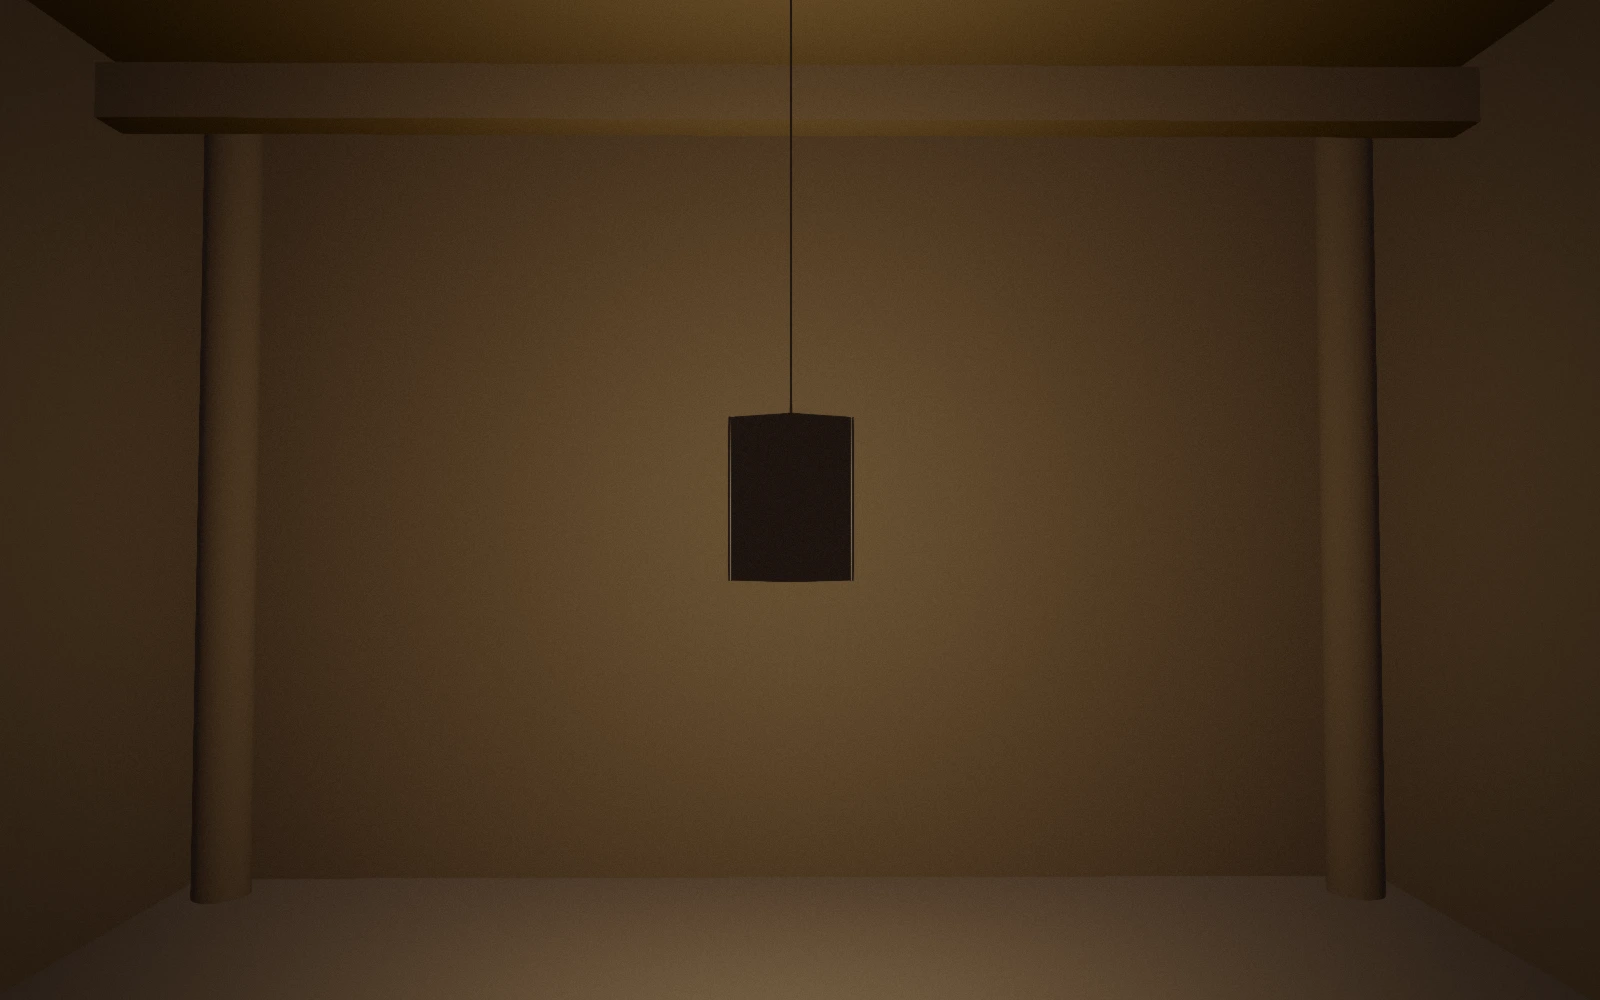
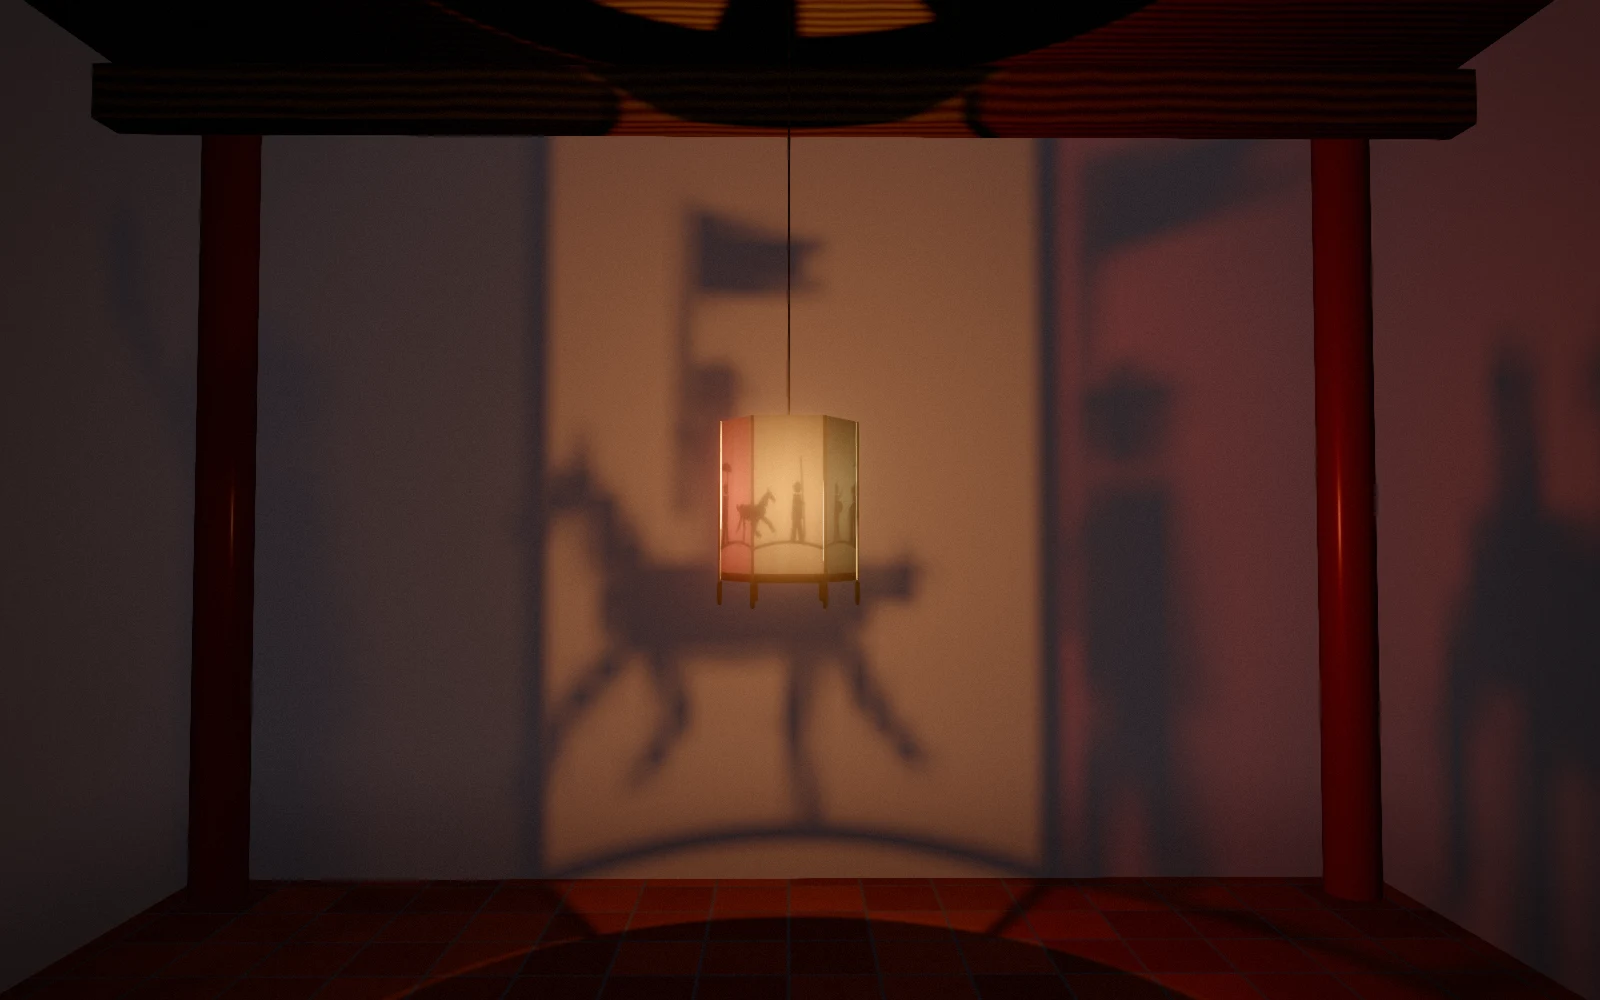
feat(den-keo-quan): poster và og chụp từ cảnh
- Chụp lại sau lượt màu bằng scripts/poster.js trên GPU thật, ở khung 200 (con ngựa phi và lá cờ giữa vách sau):
  poster.webp 1600×1000 (75 KB), og.jpg 1200×630 (47 KB).
- e2e Giấy: so SẮC của vách sau sau tấm đỏ son và sau tấm vàng lá (tỉ lệ R / G), không so độ sắc tuyệt đối. Sau lượt màu, giấy nhuộm
  làm vách tối đi nên (max − min) giảm dù màu đậm hơn, và test cũ hỏng oan. Đo: 0,27 khi có giấy, 0,05 khi không. canvasRegions trả
  thêm trung bình R, G, B của mỗi vùng.

diff --git a/e2e/den-keo-quan.spec.js b/e2e/den-keo-quan.spec.js
@@ -18,6 +18,11 @@ const FAR = { x0: 0, y0: 0.55, x1: 0.1, y1: 1 };
 const FLOOR_FAR = { x0: 0.02, y0: 0.9, x1: 0.22, y1: 1 };
 // Giữa tấm giấy quay về camera, tránh hai nan tre (tre vàng dưới đèn xưởng cũng là điểm ấm). Tỉ lệ khung 640×400.
 const LANTERN_BOX = { x0: 0.477, y0: 0.45, x1: 0.508, y1: 0.56 };
+// Vách sau, hai bên vạch bóng của nan tre bên phải: sau tấm vàng lá (giữa đèn và vạch) và sau tấm đỏ son (giữa vạch và cột phải).
+const GOLD_ZONE = { x0: 0.56, y0: 0.2, x1: 0.64, y1: 0.8 };
+const RED_ZONE = { x0: 0.68, y0: 0.2, x1: 0.8, y1: 0.8 };
+/** Độ ngả đỏ của một vùng: R / G của màu trung bình (không phụ thuộc độ sáng). */
+const redness = (region) => region.rgb[0] / Math.max(region.rgb[1], 1);
 
 let log;
 test.beforeEach(async ({ page }, testInfo) => {
@@ -183,15 +188,20 @@ test.describe('Đèn Kéo Quân · giấy', () => {
     test.skip(testInfo.project.metadata.kind !== '3d', 'chỉ chạy ở project 3D');
   });
 
-  test('giấy sáng lên từ bên trong (điểm ấm) và nhuộm màu ánh sáng ra vách; mài Giấy về 0 thì hết cả hai', async ({ page }, testInfo) => {
+  test('giấy sáng lên từ bên trong (điểm ấm) và nhuộm màu ánh sáng ra vách theo tấm; mài Giấy về 0 thì hết cả hai', async ({ page }, testInfo) => {
     test.setTimeout(180_000);
     await open(page, testInfo, 60);
-    const lit = await canvasRegions(page, { lantern: LANTERN_BOX, wall: WALL });
+    const regions = { lantern: LANTERN_BOX, gold: GOLD_ZONE, red: RED_ZONE };
+    const lit = await canvasRegions(page, regions);
     await page.evaluate(() => window.__sma.setWeight('giay', 0));
-    const bare = await canvasRegions(page, { lantern: LANTERN_BOX, wall: WALL });
+    const bare = await canvasRegions(page, regions);
     expect(lit.lantern.warm, 'giấy sáng: có điểm ấm').toBeGreaterThan(0);
     expect(bare.lantern.warm, 'giấy là đất sét: không điểm ấm').toBe(0);
-    expect(lit.wall.chroma, 'ánh sáng qua giấy nhuộm màu vách').toBeGreaterThan(bare.wall.chroma);
+    // So SẮC, không so độ sắc tuyệt đối: giấy nhuộm làm vách tối đi, nên (max − min) giảm dù màu đậm hơn. Cùng một khung (cùng bóng
+    // hình nhân), không có giấy thì hai vùng cùng một ánh nến; có giấy thì vùng sau tấm đỏ son ngả đỏ hơn hẳn vùng sau tấm vàng lá.
+    // Đo lúc làm (khung 60, cả hai backend): 0,27 khi có giấy, 0,05 khi không.
+    const gap = (r) => redness(r.red) - redness(r.gold);
+    expect(gap(lit), 'ánh sáng mang màu tấm giấy nó đi qua').toBeGreaterThan(gap(bare) + 0.1);
     expect(log.errors).toEqual([]);
   });
 

diff --git a/e2e/helpers.js b/e2e/helpers.js
@@ -84,7 +84,8 @@ export const FULL = { x0: 0, y0: 0, x1: 1, y1: 1 };
  * Mỗi vùng: checksum, độ sáng trung bình (0–1), độ lệch chuẩn độ sáng, sắc độ trung bình (chroma = (max − min) / 255: đo
  * theo tuyệt đối, vì độ bão hòa (max − min) / max thổi phồng những điểm gần đen như nền đen then), `transparent`: số
  * điểm canvas trong suốt (lúc chụp, nền trang tô màu hồng sen #ff00ff: điểm trong suốt để lộ nền ấy ra), và `warm` (GĐ 5): số
- * điểm sáng màu ấm (R > 150, G > 110, R − B > 40), như ánh nến của hoa đăng và vũng sáng nó hắt xuống nước.
+ * điểm sáng màu ấm (R > 150, G > 110, R − B > 40), như ánh nến của hoa đăng và vũng sáng nó hắt xuống nước; `rgb` (GĐ 6): trung
+ * bình từng kênh (0–255), để so SẮC của hai vùng (tỉ lệ R / G) mà không phụ thuộc độ sáng.
  * @param {import('@playwright/test').Page} page
  * @param {Record<string, { x0: number, y0: number, x1: number, y1: number, ring?: { r: number, inside: boolean } }>} regions
  */
@@ -109,6 +110,7 @@ export async function canvasRegions(page, regions = { all: FULL }, selector = '[
       let sumS = 0;
       let transparent = 0;
       let warm = 0;
+      const rgb = [0, 0, 0];
       const radius = r.ring ? r.ring.r * Math.min(w, h) : 0;
       for (let y = Math.floor(r.y0 * h); y < Math.floor(r.y1 * h); y++) {
         for (let x = Math.floor(r.x0 * w); x < Math.floor(r.x1 * w); x++) {
@@ -123,12 +125,17 @@ export async function canvasRegions(page, regions = { all: FULL }, selector = '[
           sumL += l;
           sumL2 += l * l;
           sumS += (max - min) / 255;
+          rgb[0] += R;
+          rgb[1] += G;
+          rgb[2] += B;
           if (R > 240 && G < 20 && B > 240) transparent += 1;
           if (R > 150 && G > 110 && R - B > 40) warm += 1;
         }
       }
       const mean = sumL / n;
-      out[name] = { checksum: sum, mean, std: Math.sqrt(Math.max(sumL2 / n - mean * mean, 0)), chroma: sumS / n, transparent, warm };
+      out[name] = {
+        checksum: sum, mean, std: Math.sqrt(Math.max(sumL2 / n - mean * mean, 0)), chroma: sumS / n, transparent, warm, rgb: rgb.map((v) => v / n),
+      };
     }
     return out;
   }, { b64: png.toString('base64'), regions });

diff --git a/src/paintings/den-keo-quan/meta.js b/src/paintings/den-keo-quan/meta.js
@@ -18,8 +18,8 @@ export default {
     height: 1000,
     alt: 'Tranh sơn mài đèn kéo quân: ngọn đèn giấy treo giữa gian nhà tối, bóng voi ngựa chạy quanh vách.',
     // scripts/poster.js chụp từ chính cảnh. Bức không có giờ hay trăng trong cảnh: at chỉ để con dấu và trăng SVG giống Bức 1.
-    // freeze là khung mà đoàn quân đứng đẹp trên vách sau.
-    capture: { at: '2026-10-25T21:00', freeze: 240 },
+    // freeze là khung mà đoàn quân đứng đẹp trên vách sau: khung 200 có con ngựa phi và lá cờ ngay giữa vách (lượt màu GĐ 6).
+    capture: { at: '2026-10-25T21:00', freeze: 200 },
   },
   og: 'paintings/den-keo-quan/og.jpg',
   // Hai màu thêm vào bảng sơn mài (spec §18.3): lửa cam, giấy dó.
